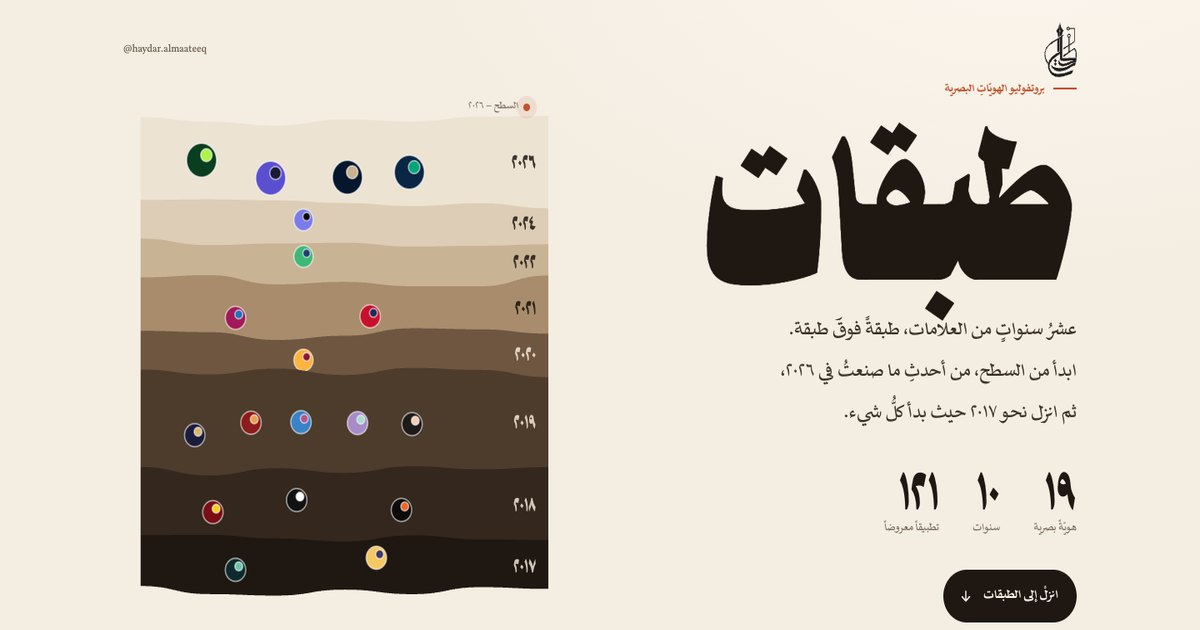
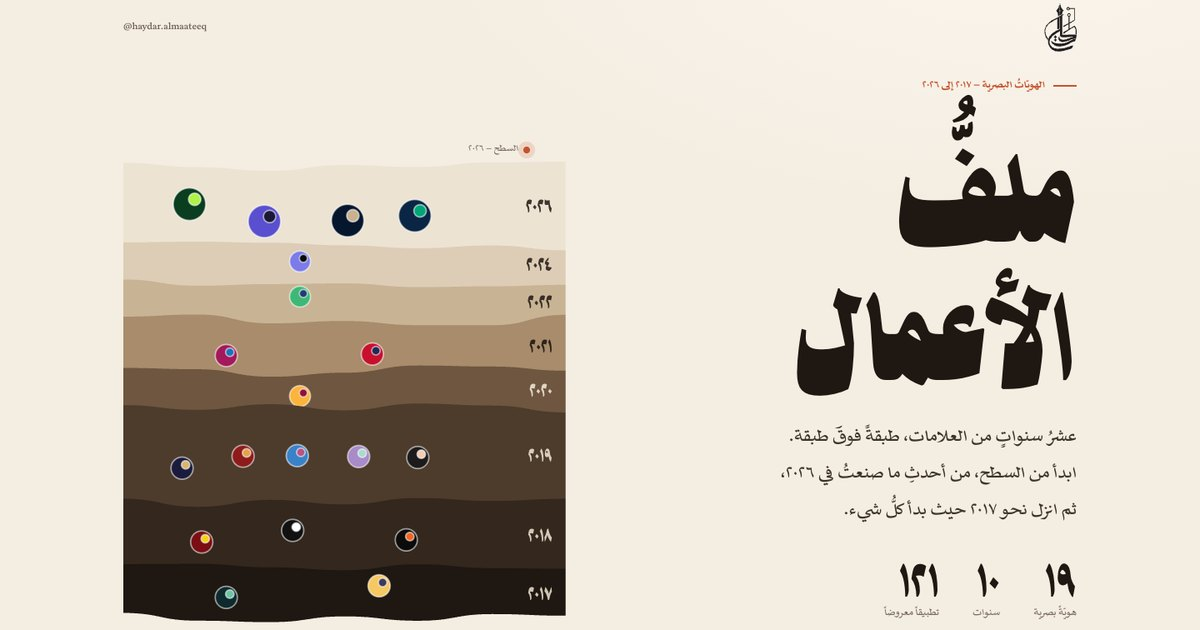
البروتفوليو: الاسم «ملفُّ الأعمال» بدل «طبقات»

diff --git a/portfolio/index.html b/portfolio/index.html
@@ -3,11 +3,11 @@
 <head>
 <meta charset="utf-8">
 <meta name="viewport" content="width=device-width, initial-scale=1">
-<title>طبقات — بروتفوليو الهويات | حيدر المعاتيق</title>
+<title>ملفُّ الأعمال — الهويّات البصرية | حيدر المعاتيق</title>
 <meta name="description" content="عشرُ سنواتٍ من الهويّاتِ البصرية، من ٢٠١٧ إلى ٢٠٢٦، طبقةً فوقَ طبقة — أعمالُ حيدر المعاتيق.">
 <meta name="theme-color" content="#F4EDE2">
 <meta property="og:type" content="website">
-<meta property="og:title" content="طبقات — عشرُ سنواتٍ من الهويّاتِ البصرية">
+<meta property="og:title" content="ملفُّ الأعمال — عشرُ سنواتٍ من الهويّاتِ البصرية">
 <meta property="og:description" content="من ٢٠١٧ إلى ٢٠٢٦: أيمن، ستوديو القرين، أفق المستقبل، سوروبان، وأرشيفٌ من العلامات.">
 <meta property="og:url" content="https://haydarvsky.github.io/brand/portfolio/">
 <meta property="og:image" content="https://haydarvsky.github.io/brand/portfolio/img/og.jpg">
@@ -39,7 +39,7 @@ button{font:inherit;color:inherit;background:none;border:0;cursor:pointer;paddin
 :focus-visible{outline:2px solid var(--clay);outline-offset:3px;border-radius:4px}
 
 /* ============ البطل ============ */
-.hero{position:relative;min-height:100svh;display:flex;align-items:center;padding:40px 0 60px;
+.hero{position:relative;min-height:100svh;display:flex;align-items:center;padding:104px 0 60px;
   background:
    radial-gradient(1200px 600px at 85% -10%, #FBF6EE 0%, transparent 60%),
    var(--paper)}
@@ -50,7 +50,7 @@ button{font:inherit;color:inherit;background:none;border:0;cursor:pointer;paddin
 .hero-top .hand{font-size:15px;color:#6F6152}
 .kicker{display:inline-flex;align-items:center;gap:10px;font-size:15px;color:var(--clay);font-weight:700;letter-spacing:0}
 .kicker::before{content:"";width:28px;height:2px;background:currentColor}
-.hero h1{font-size:clamp(84px,14vw,196px);line-height:.95;margin:14px 0 6px;color:var(--ink)}
+.hero h1{font-size:clamp(66px,9.5vw,136px);line-height:1.22;margin:34px 0 0;color:var(--ink)}
 .hero h1 span{display:inline-block}
 .hero .lead{font-size:clamp(20px,2.2vw,26px);line-height:1.7;max-width:30ch;color:#3E3329;margin:18px 0 28px}
 .stats{display:flex;gap:clamp(18px,3vw,40px);flex-wrap:wrap;margin:0 0 30px;padding:0;list-style:none}
@@ -245,15 +245,15 @@ button{font:inherit;color:inherit;background:none;border:0;cursor:pointer;paddin
   </div></div>
   <div class="wrap">
     <div>
-      <span class="kicker">بروتفوليو الهويّاتِ البصرية</span>
-      <h1>طبقات</h1>
+      <span class="kicker">الهويّاتُ البصرية — ٢٠١٧ إلى ٢٠٢٦</span>
+      <h1><span>ملفُّ</span><br><span>الأعمال</span></h1>
       <p class="lead">عشرُ سنواتٍ من العلامات، طبقةً فوقَ طبقة. ابدأ من السطح، من أحدثِ ما صنعتُ في ٢٠٢٦، ثم انزل نحو ٢٠١٧ حيث بدأ كلُّ شيء.</p>
       <ul class="stats">
         <li><b data-count="19">٠</b><small>هويّةً بصرية</small></li>
         <li><b data-count="10">٠</b><small>سنوات</small></li>
         <li><b data-count="__NI__">٠</b><small>تطبيقاً معروضاً</small></li>
       </ul>
-      <a class="cta" href="#y2026">انزلْ إلى الطبقات
+      <a class="cta" href="#y2026">انزلْ عبر السنوات
         <svg viewBox="0 0 24 24"><path d="M12 5v14M6 13l6 6 6-6"/></svg></a>
     </div>
     <div class="strata" id="strata">
@@ -306,7 +306,7 @@ const AR=n=>String(n).replace(/\d/g,d=>'٠١٢٣٤٥٦٧٨٩'[d]);
 /* ألوانُ الطبقات: من رملِ السطحِ إلى طينِ العمق */
 const LAYERS={
  2026:{bg:'#EDE3D3',fg:'#1E1712',fg2:'#4A3D31',mut:'#7C6C5B',line:'rgba(30,23,18,.16)',card:'#F6EFE4',tile:'#E2D6C3',acc:'#B4471F',
-   line1:'أغزرُ الطبقات: أنظمةُ هويّةٍ كاملة، من الفكرةِ إلى الحركة.'},
+   line1:'أغزرُ السنوات: أنظمةُ هويّةٍ كاملة، من الفكرةِ إلى الحركة.'},
  2024:{bg:'#DDCDB6',fg:'#1E1712',fg2:'#45382C',mut:'#6E5E4D',line:'rgba(30,23,18,.18)',card:'#E9DCC8',tile:'#D1BFA5',acc:'#9E3D1A',
    line1:'حرفٌ واحدٌ يكفي ليحملَ شركةً كاملة.'},
  2022:{bg:'#C9B395',fg:'#1E1712',fg2:'#3F3226',mut:'#5F4F3E',line:'rgba(30,23,18,.2)',card:'#D8C5A9',tile:'#BBA383',acc:'#8A3415',
